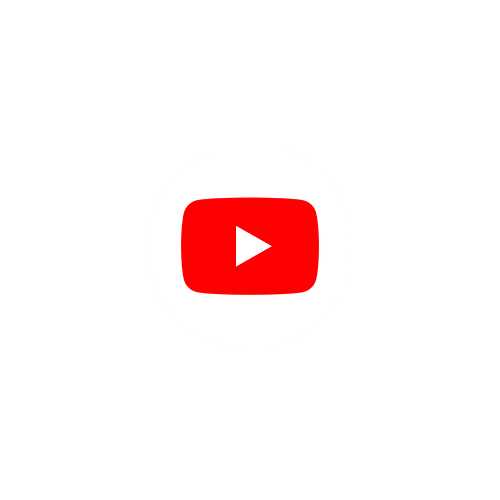
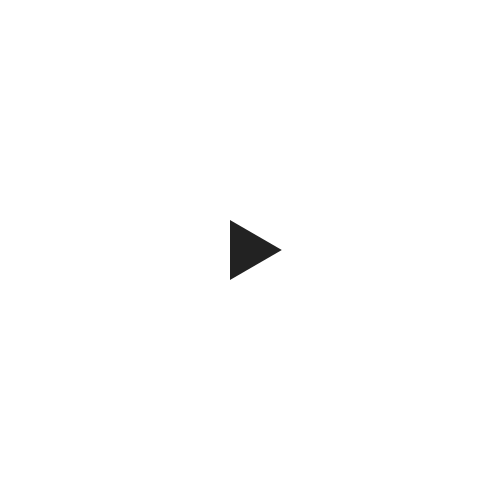
Truthway website

Changed region(s): [[0.36, 0.39, 0.66, 0.6]]

diff --git a/home.html b/home.html
@@ -419,14 +419,14 @@
                 <p class="text-muted">Web developer</p>
                 <ul class="list-inline social-buttons">
                   <li>
-                    <a href="https://www.instagram.com/brenes_3005/"
-                      ><i class="fa fa-twitter"></i
-                    ></a>
+                    <a href="https://www.instagram.com/brenes_3005/">
+                      <div class="icon-instagram"></div>
+                    </a>
                   </li>
                   <li>
-                    <a href="https://www.facebook.com/Josue.Brenes.3005"
-                      ><i class="fa fa-facebook"></i
-                    ></a>
+                    <a href="https://www.facebook.com/Josue.Brenes.3005">
+                      <div class="icon-facebook"></div>
+                    </a>
                   </li>
                 </ul>
               </div>
@@ -443,8 +443,15 @@
                 <ul class="list-inline social-buttons">
                   <li>
                     <a href="https://www.instagram.com/_david.brenes_/"
-                      ><i class="fa fa-twitter"></i
+                      ><div class="icon-instagram"></div
                     ></a>
+                  </li>
+                  <li>
+                    <a
+                      href="https://www.youtube.com/channel/UCvyk1Lg2RpBhZdGNSD3BHzA"
+                    >
+                      <div class="icon-youtube"></div>
+                    </a>
                   </li>
                 </ul>
               </div>

diff --git a/css/home.css b/css/home.css
@@ -751,6 +751,49 @@ footer ul.quicklinks {
   line-height: 40px;
 }
 
+/* Social Buttons */
+
+.social-buttons {
+  display: inline-block;
+  position: relative;
+}
+
+.social-buttons .icon-instagram {
+  background-image: url("/img/instagram.png");
+  width: 50px;
+  height: 50px;
+  background-size: cover;
+  background-repeat: no-repeat;
+  position: absolute;
+  top: 45%;
+  left: 24.6%;
+  transform: translate(-50%, -50%);
+}
+
+.social-buttons .icon-facebook {
+  background-image: url("/img/facebook.png");
+  width: 50px;
+  height: 50px;
+  background-size: cover;
+  background-repeat: no-repeat;
+  position: absolute;
+  top: 45%;
+  left: 76.6%;
+  transform: translate(-50%, -50%);
+}
+
+.social-buttons .icon-youtube {
+  background-image: url("/img/youtube.png");
+  width: 50px;
+  height: 50px;
+  background-size: cover;
+  background-repeat: no-repeat;
+  position: absolute;
+  top: 45%;
+  left: 76.6%;
+  transform: translate(-50%, -50%);
+}
+
 ul.social-buttons {
   margin-bottom: 0;
 }
